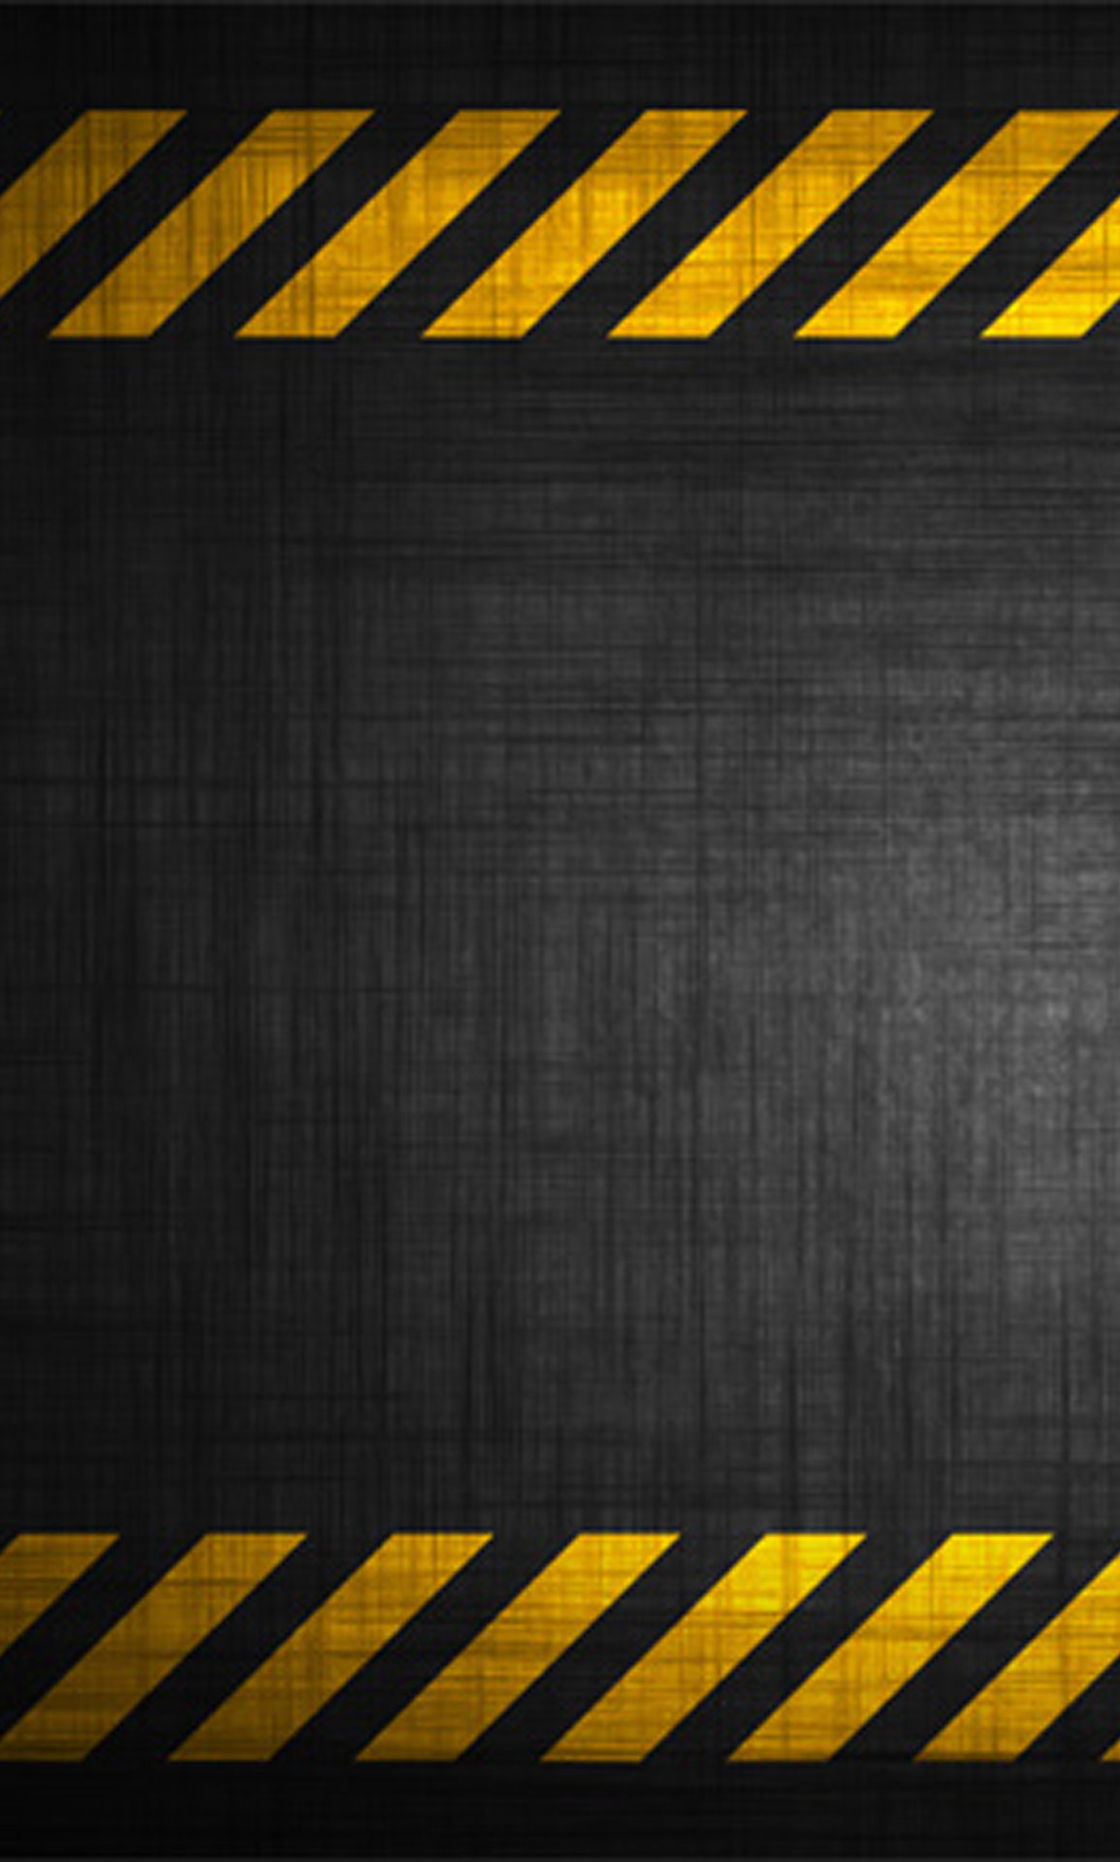
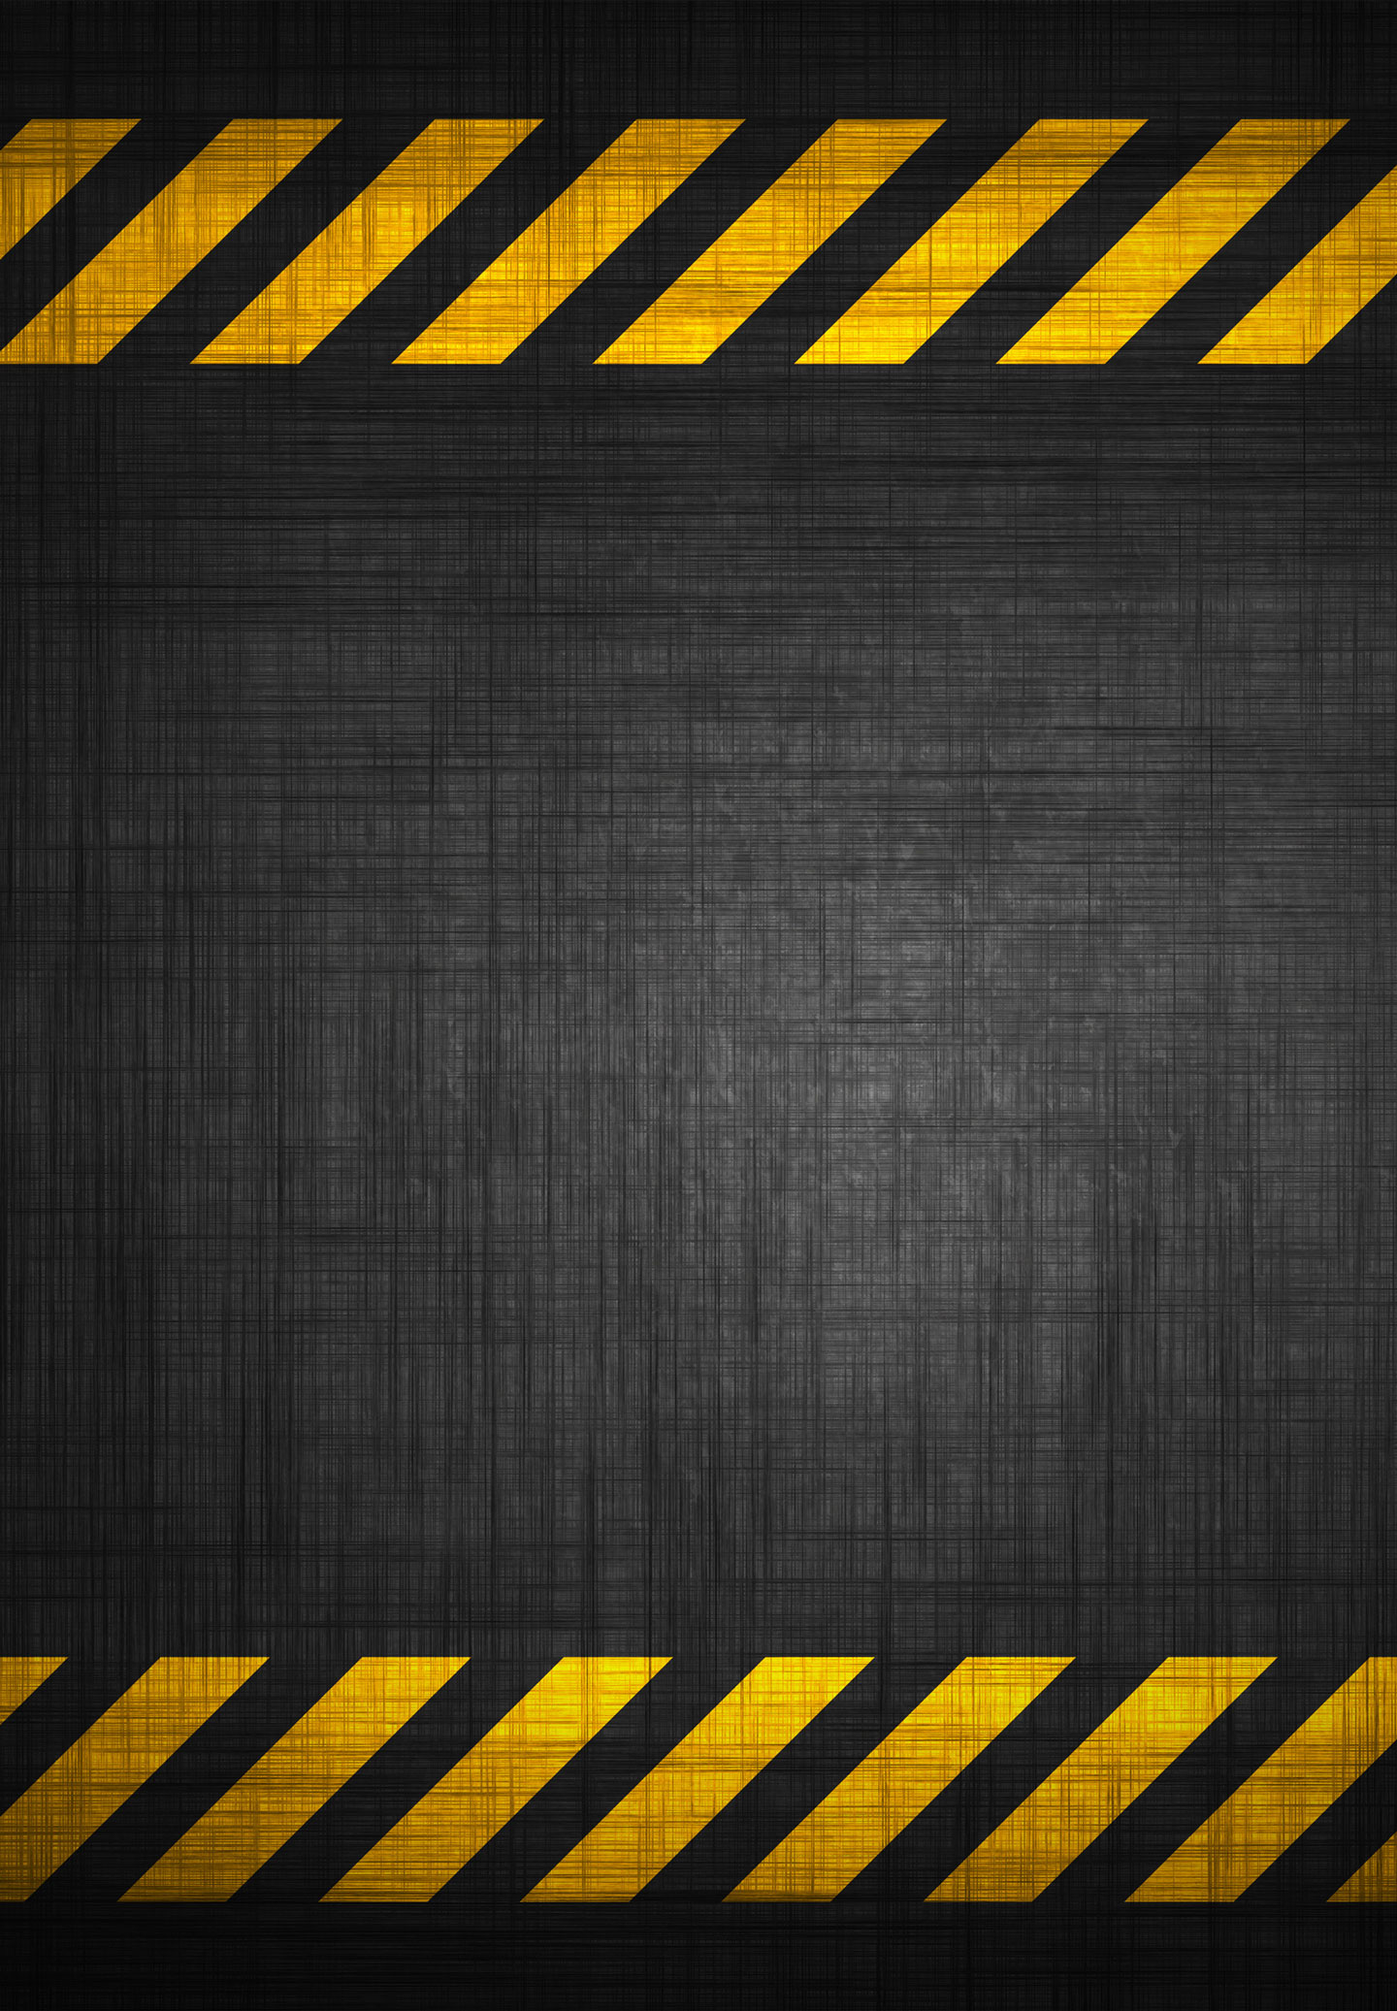
Sinfleplaye and Multiplayer buttons added. Background image now stretches to full background.

diff --git a/core/src/com/chainreactionai/game/ChainReactionAIGame.java b/core/src/com/chainreactionai/game/ChainReactionAIGame.java
@@ -64,9 +64,10 @@ public class ChainReactionAIGame extends Game {
 	public static Drawable achievementsButtonDraw, achievementsPressedButtonDraw, backButtonDraw,
 		backPressedButtonDraw, exitButtonDraw, exitPressedButtonDraw, leaderboardButtonDraw,
 		leaderboardPressedButtonDraw, mainMenuButtonDraw, mainMenuPressedButtonDraw,
-		newGameButtonDraw, newGamePressedButtonDraw, pauseButtonDraw, pausePressedButtonDraw,
-		playButtonDraw, playPressedButtonDraw, playAgainButtonDraw, playAgainPressedButtonDraw,
-		resumeButtonDraw, resumePressedButtonDraw, rulesButtonDraw, rulesPressedButtonDraw,
+		multiPlayerButtonDraw, multiPlayerPressedButtonDraw, newGameButtonDraw, newGamePressedButtonDraw,
+		pauseButtonDraw, pausePressedButtonDraw, playButtonDraw, playPressedButtonDraw,
+		playAgainButtonDraw, playAgainPressedButtonDraw, resumeButtonDraw, resumePressedButtonDraw,
+		rulesButtonDraw, rulesPressedButtonDraw, singlePlayerButtonDraw, singlePlayerPressedButtonDraw,
 		statsButtonDraw, statsPressedButtonDraw, submitButtonDraw, submitPressedButtonDraw,
 		pressedHumanCpuButtonDraw, unpressedHumanButtonDraw, unpressedCpuButtonDraw, logoDraw;
 
@@ -91,6 +92,8 @@ public class ChainReactionAIGame extends Game {
 		leaderboardPressedButtonDraw = (Drawable)(new TextureRegionDrawable(new TextureRegion(new Texture("buttons/leaderboardPressed.png"))));
 		mainMenuButtonDraw = (Drawable)(new TextureRegionDrawable(new TextureRegion(new Texture("buttons/mainMenu.jpg"))));
 		mainMenuPressedButtonDraw = (Drawable)(new TextureRegionDrawable(new TextureRegion(new Texture("buttons/mainMenuPressed.png"))));
+		multiPlayerButtonDraw = (Drawable)(new TextureRegionDrawable(new TextureRegion(new Texture("buttons/multiPlayer.jpg"))));
+		multiPlayerPressedButtonDraw = (Drawable)(new TextureRegionDrawable(new TextureRegion(new Texture("buttons/multiPlayerPressed.png"))));
 		newGameButtonDraw = (Drawable)(new TextureRegionDrawable(new TextureRegion(new Texture("buttons/newGame.jpg"))));
 		newGamePressedButtonDraw = (Drawable)(new TextureRegionDrawable(new TextureRegion(new Texture("buttons/newGamePressed.png"))));
 		pauseButtonDraw = (Drawable)(new TextureRegionDrawable(new TextureRegion(new Texture("buttons/pause.jpg"))));
@@ -103,6 +106,8 @@ public class ChainReactionAIGame extends Game {
 		resumePressedButtonDraw = (Drawable)(new TextureRegionDrawable(new TextureRegion(new Texture("buttons/resumePressed.png"))));
 		rulesButtonDraw = (Drawable)(new TextureRegionDrawable(new TextureRegion(new Texture("buttons/rules.jpg"))));
 		rulesPressedButtonDraw = (Drawable)(new TextureRegionDrawable(new TextureRegion(new Texture("buttons/rulesPressed.png"))));
+		singlePlayerButtonDraw = (Drawable)(new TextureRegionDrawable(new TextureRegion(new Texture("buttons/singlePlayer.jpg"))));
+		singlePlayerPressedButtonDraw = (Drawable)(new TextureRegionDrawable(new TextureRegion(new Texture("buttons/singlePlayerPressed.png"))));
 		statsButtonDraw = (Drawable)(new TextureRegionDrawable(new TextureRegion(new Texture("buttons/statistics.jpg"))));
 		statsPressedButtonDraw = (Drawable)(new TextureRegionDrawable(new TextureRegion(new Texture("buttons/statisticsPressed.png"))));
 		submitButtonDraw = (Drawable)(new TextureRegionDrawable(new TextureRegion(new Texture("buttons/submit.jpg"))));

diff --git a/core/src/com/chainreactionai/game/ChooseGameTypeScreen.java b/core/src/com/chainreactionai/game/ChooseGameTypeScreen.java
@@ -24,6 +24,7 @@ import com.badlogic.gdx.graphics.g3d.environment.DirectionalLight;
 import com.badlogic.gdx.graphics.g3d.utils.ModelBuilder;
 import com.badlogic.gdx.scenes.scene2d.InputEvent;
 import com.badlogic.gdx.scenes.scene2d.Stage;
+import com.badlogic.gdx.scenes.scene2d.ui.Image;
 import com.badlogic.gdx.scenes.scene2d.ui.ImageButton;
 import com.badlogic.gdx.scenes.scene2d.ui.Table;
 import com.badlogic.gdx.scenes.scene2d.utils.ClickListener;
@@ -61,6 +62,7 @@ public class ChooseGameTypeScreen implements Screen {
 	private Environment environment;
 	private ArrayList<Integer> startZPosition, distNow, xVal, yVal, color, speed;
 	private Random rand;
+	private Image img;
 	
 	public ChooseGameTypeScreen(ChainReactionAIGame game) {
 		ChainReactionAIGame.currentScreen = 0;
@@ -138,14 +140,17 @@ public class ChooseGameTypeScreen implements Screen {
         environment.set(new ColorAttribute(ColorAttribute.AmbientLight, 0.4f, 0.4f, 0.4f, 1f));
         environment.add(new DirectionalLight().set(0.8f, 0.8f, 0.8f, -1f, -0.8f, -0.2f));
         rand = new Random();
+        img = new Image(ChainReactionAIGame.texture);
         
         // Adds the buttons to the Table.
-		buttonSinglePlayer = new ImageButton(ChainReactionAIGame.playButtonDraw, ChainReactionAIGame.playPressedButtonDraw);
+		buttonSinglePlayer = new ImageButton(ChainReactionAIGame.singlePlayerButtonDraw, ChainReactionAIGame.singlePlayerPressedButtonDraw);
 		table.add(buttonSinglePlayer).size(WIDTH_MAIN_MENU_BUTTONS*widthUpscaleFactor, HEIGHT_MAIN_MENU_BUTTONS*widthUpscaleFactor).padBottom(20).row();
-		buttonMultiPlayer = new ImageButton(ChainReactionAIGame.rulesButtonDraw, ChainReactionAIGame.rulesPressedButtonDraw);
+		buttonMultiPlayer = new ImageButton(ChainReactionAIGame.multiPlayerButtonDraw, ChainReactionAIGame.multiPlayerPressedButtonDraw);
 		table.add(buttonMultiPlayer).size(WIDTH_MAIN_MENU_BUTTONS*widthUpscaleFactor, HEIGHT_MAIN_MENU_BUTTONS*widthUpscaleFactor).padBottom(20).row();
 		table.setFillParent(true);
 		// Adding the table to stage.
+		stage.addActor(img);
+		img.setFillParent(true);
 		stage.addActor(table);
 		// Attaching ClickListeners to the Play and Exit buttons.
 		buttonSinglePlayer.addListener(new ClickListener() {
@@ -169,10 +174,6 @@ public class ChooseGameTypeScreen implements Screen {
 		Gdx.gl.glViewport(0, 0, Gdx.graphics.getWidth(), Gdx.graphics.getHeight());
 		Gdx.gl.glClear(GL20.GL_COLOR_BUFFER_BIT | GL20.GL_DEPTH_BUFFER_BIT);
 		Gdx.gl.glClearColor(((float)(15)/255), ((float)(15)/255), ((float)(15)/255), 1);
-		batch.setProjectionMatrix(cam.combined);
-	    batch.begin();
-	    batch.draw(ChainReactionAIGame.texture, 0, 0, WIDTH_SCREEN, HEIGHT_SCREEN);
-	    batch.end();
 		if (animationInit) {
 			modelBatch.begin(cam);
 			createAnimation();

diff --git a/core/src/com/chainreactionai/game/MainGameScreenChar.java b/core/src/com/chainreactionai/game/MainGameScreenChar.java
@@ -32,6 +32,7 @@ import com.badlogic.gdx.graphics.glutils.ShapeRenderer.ShapeType;
 import com.badlogic.gdx.math.Rectangle;
 import com.badlogic.gdx.scenes.scene2d.InputEvent;
 import com.badlogic.gdx.scenes.scene2d.Stage;
+import com.badlogic.gdx.scenes.scene2d.ui.Image;
 import com.badlogic.gdx.scenes.scene2d.ui.ImageButton;
 import com.badlogic.gdx.scenes.scene2d.ui.Table;
 import com.badlogic.gdx.scenes.scene2d.utils.ClickListener;
@@ -100,6 +101,7 @@ public class MainGameScreenChar implements Screen {
 	private ArrayList<Integer> startZPosition, distNow, xVal, yVal, color, speed;
 	private boolean animationInit = false;
 	private Random rand;
+	private Image img;
 	//Sound Object
 	private Sound ballSound;
 	private Sound splitSound;
@@ -231,6 +233,8 @@ public class MainGameScreenChar implements Screen {
 		handle.writeString("--------------------------------------------------------------------------\r\n", true);
 		
 		// Populating the Pause menu with the buttons.
+		img = new Image(ChainReactionAIGame.texture);
+		img.setFillParent(true);
 		table.add(resumeButton).size(WIDTH_PAUSE_MENU_BUTTONS*widthUpscaleFactor, HEIGHT_PAUSE_MENU_BUTTONS*widthUpscaleFactor).padBottom(2).row();
 		table.add(newGameButton).size(WIDTH_PAUSE_MENU_BUTTONS*widthUpscaleFactor, HEIGHT_PAUSE_MENU_BUTTONS*widthUpscaleFactor).padBottom(2).row();
 		table.add(mainMenuButton).size(WIDTH_PAUSE_MENU_BUTTONS*widthUpscaleFactor, HEIGHT_PAUSE_MENU_BUTTONS*widthUpscaleFactor).padBottom(2).row();
@@ -519,9 +523,6 @@ public class MainGameScreenChar implements Screen {
 	        modelBatch.end();
 	        shapeRenderer.end();		
 		} else {
-			batch.begin();
-		    batch.draw(ChainReactionAIGame.texture, 0, 0, ChainReactionAIGame.WIDTH, ChainReactionAIGame.HEIGHT);
-		    batch.end();
 			// If the game is paused, add the pause menu to the stage.
 			if (animationInit) {
 				modelBatch.begin(cam);
@@ -529,6 +530,7 @@ public class MainGameScreenChar implements Screen {
 				drawAnimation();
 				modelBatch.end();
 			}
+			stage.addActor(img);
 			stage.addActor(table);
 			stage.act();
 			stage.draw();

diff --git a/core/src/com/chainreactionai/game/GameEndScreen.java b/core/src/com/chainreactionai/game/GameEndScreen.java
@@ -25,6 +25,7 @@ import com.badlogic.gdx.graphics.g3d.environment.DirectionalLight;
 import com.badlogic.gdx.graphics.g3d.utils.ModelBuilder;
 import com.badlogic.gdx.scenes.scene2d.InputEvent;
 import com.badlogic.gdx.scenes.scene2d.Stage;
+import com.badlogic.gdx.scenes.scene2d.ui.Image;
 import com.badlogic.gdx.scenes.scene2d.ui.ImageButton;
 import com.badlogic.gdx.scenes.scene2d.ui.Label;
 import com.badlogic.gdx.scenes.scene2d.ui.Skin;
@@ -70,6 +71,7 @@ public class GameEndScreen implements Screen {
 	private Random rand;
 	private Skin skin = new Skin(Gdx.files.internal("data/Holo-dark-mdpi.json"),
 			new TextureAtlas(Gdx.files.internal("data/Holo-dark-mdpi.atlas")));
+	private Image img = new Image(ChainReactionAIGame.texture);
 	
 	public GameEndScreen (ChainReactionAIGame game, int winner, int numMovesPlayed, boolean[] isCPU, int[] difficultyLevels) {
 		myGame = game;
@@ -141,6 +143,8 @@ public class GameEndScreen implements Screen {
 		table.add(buttonExit).size(WIDTH_BUTTONS*widthUpscaleFactor, HEIGHT_BUTTONS*widthUpscaleFactor).padBottom(20).row();
 		table.setFillParent(true);
 		// Add table to the stage.
+		img.setFillParent(true);
+		stage.addActor(img);
 		stage.addActor(table);
 		// Add ClickListeners to the Play Again and Exit buttons
 		buttonPlayAgain.addListener(new ClickListener() {
@@ -183,10 +187,6 @@ public class GameEndScreen implements Screen {
 		Gdx.gl.glViewport(0, 0, Gdx.graphics.getWidth(), Gdx.graphics.getHeight());
 		Gdx.gl.glClear(GL20.GL_COLOR_BUFFER_BIT | GL20.GL_DEPTH_BUFFER_BIT);
 		Gdx.gl.glClearColor(((float)(15)/255), ((float)(15)/255), ((float)(15)/255), 1);
-		batch.setProjectionMatrix(cam.combined);
-	    batch.begin();
-	    batch.draw(ChainReactionAIGame.texture, 0, 0, WIDTH_SCREEN, HEIGHT_SCREEN);
-	    batch.end();
 		if (animationInit) {
 			modelBatch.begin(cam);
 			createAnimation();

diff --git a/core/src/com/chainreactionai/game/ChooseOpponentsAndLevelsScreen.java b/core/src/com/chainreactionai/game/ChooseOpponentsAndLevelsScreen.java
@@ -28,6 +28,7 @@ import com.badlogic.gdx.scenes.scene2d.InputListener;
 import com.badlogic.gdx.scenes.scene2d.Stage;
 import com.badlogic.gdx.scenes.scene2d.ui.ImageButton;
 import com.badlogic.gdx.scenes.scene2d.ui.ImageButton.ImageButtonStyle;
+import com.badlogic.gdx.scenes.scene2d.ui.Image;
 import com.badlogic.gdx.scenes.scene2d.ui.Label;
 import com.badlogic.gdx.scenes.scene2d.ui.ScrollPane;
 import com.badlogic.gdx.scenes.scene2d.ui.Skin;
@@ -85,6 +86,7 @@ public class ChooseOpponentsAndLevelsScreen implements Screen {
 	private Random rand;
 	private Skin skin = new Skin(Gdx.files.internal("data/Holo-dark-mdpi.json"),
 			new TextureAtlas(Gdx.files.internal("data/Holo-dark-mdpi.atlas")));
+	private Image img = new Image(ChainReactionAIGame.texture);
 	
 	// Constructor which initializes the number of players passed from
 	// NumPlayersScreen and the number if difficulty levels allowed.
@@ -222,6 +224,8 @@ public class ChooseOpponentsAndLevelsScreen implements Screen {
 		container.setFillParent(true);
 		container.add(scroll).fill().expand().row();
 		// Adding container to stage.
+		img.setFillParent(true);
+		stage.addActor(img);
 		stage.addActor(container);
 		// Adding ClickListener to the submit button
 		submitButton.addListener(new ClickListener() {
@@ -250,10 +254,6 @@ public class ChooseOpponentsAndLevelsScreen implements Screen {
 		Gdx.gl.glViewport(0, 0, Gdx.graphics.getWidth(), Gdx.graphics.getHeight());
 		Gdx.gl.glClear(GL20.GL_COLOR_BUFFER_BIT | GL20.GL_DEPTH_BUFFER_BIT);
 		Gdx.gl.glClearColor(((float)(15)/255), ((float)(15)/255), ((float)(15)/255), 1);
-		batch.setProjectionMatrix(cam.combined);
-	    batch.begin();
-	    batch.draw(ChainReactionAIGame.texture, 0, 0, WIDTH_SCREEN, HEIGHT_SCREEN);
-	    batch.end();
 		if (animationInit) {
 			modelBatch.begin(cam);
 			createAnimation();

diff --git a/core/src/com/chainreactionai/game/MainMenuScreen.java b/core/src/com/chainreactionai/game/MainMenuScreen.java
@@ -25,6 +25,7 @@ import com.badlogic.gdx.graphics.g3d.environment.DirectionalLight;
 import com.badlogic.gdx.graphics.g3d.utils.ModelBuilder;
 import com.badlogic.gdx.scenes.scene2d.InputEvent;
 import com.badlogic.gdx.scenes.scene2d.Stage;
+import com.badlogic.gdx.scenes.scene2d.ui.Image;
 import com.badlogic.gdx.scenes.scene2d.ui.ImageButton;
 import com.badlogic.gdx.scenes.scene2d.ui.Table;
 import com.badlogic.gdx.scenes.scene2d.utils.ClickListener;
@@ -66,6 +67,7 @@ public class MainMenuScreen implements Screen {
 	private Environment environment;
 	private ArrayList<Integer> startZPosition, distNow, xVal, yVal, color, speed;
 	private Random rand;
+	private Image img = new Image(ChainReactionAIGame.texture);
 	// Initializing sounds 
 	private Sound sound;
 	
@@ -163,6 +165,8 @@ public class MainMenuScreen implements Screen {
 		table.add(buttonExit).size(WIDTH_MAIN_MENU_BUTTONS*widthUpscaleFactor, HEIGHT_MAIN_MENU_BUTTONS*widthUpscaleFactor).padBottom(20).row();
 		table.setFillParent(true);
 		// Adding the table to stage.
+		img.setFillParent(true);
+		stage.addActor(img);
 		stage.addActor(table);
 		// Attaching ClickListeners to the Play and Exit buttons.
 		buttonPlay.addListener(new ClickListener() {
@@ -209,10 +213,6 @@ public class MainMenuScreen implements Screen {
 		Gdx.gl.glViewport(0, 0, Gdx.graphics.getWidth(), Gdx.graphics.getHeight());
 		Gdx.gl.glClear(GL20.GL_COLOR_BUFFER_BIT | GL20.GL_DEPTH_BUFFER_BIT);
 		Gdx.gl.glClearColor(((float)(15)/255), ((float)(15)/255), ((float)(15)/255), 1);
-		batch.setProjectionMatrix(cam.combined);
-	    batch.begin();
-	    batch.draw(ChainReactionAIGame.texture, 0, 0, WIDTH_SCREEN, HEIGHT_SCREEN);
-	    batch.end();
 		if (animationInit) {
 			modelBatch.begin(cam);
 			createAnimation();

diff --git a/core/src/com/chainreactionai/game/SinglePlayerMenuScreen.java b/core/src/com/chainreactionai/game/SinglePlayerMenuScreen.java
@@ -26,6 +26,7 @@ import com.badlogic.gdx.graphics.g3d.utils.ModelBuilder;
 import com.badlogic.gdx.scenes.scene2d.InputEvent;
 import com.badlogic.gdx.scenes.scene2d.InputListener;
 import com.badlogic.gdx.scenes.scene2d.Stage;
+import com.badlogic.gdx.scenes.scene2d.ui.Image;
 import com.badlogic.gdx.scenes.scene2d.ui.ImageButton;
 import com.badlogic.gdx.scenes.scene2d.ui.Label;
 import com.badlogic.gdx.scenes.scene2d.ui.Skin;
@@ -76,6 +77,7 @@ public class SinglePlayerMenuScreen implements Screen {
 	private Random rand;
 	private Skin skin = new Skin(Gdx.files.internal("data/Holo-dark-mdpi.json"),
 			new TextureAtlas(Gdx.files.internal("data/Holo-dark-mdpi.atlas")));
+	private Image img = new Image(ChainReactionAIGame.texture);
 	
 	// Constructor which initializes the number of players passed from
 	// NumPlayersScreen and the number if difficulty levels allowed.
@@ -186,6 +188,8 @@ public class SinglePlayerMenuScreen implements Screen {
 		table.add(submitButton).size(WIDTH_SUBMIT_BUTTON*widthUpscaleFactor, HEIGHT_SUBMIT_BUTTON*widthUpscaleFactor).row();
 		table.setFillParent(true);
 		//Adding the table to the stage
+		img.setFillParent(true);
+		stage.addActor(img);
 		stage.addActor(table);
 		// Adding ClickListener to the submit button
 		submitButton.addListener(new ClickListener() {

diff --git a/core/src/com/chainreactionai/game/GameStatsScreen.java b/core/src/com/chainreactionai/game/GameStatsScreen.java
@@ -27,6 +27,7 @@ import com.badlogic.gdx.graphics.g3d.environment.DirectionalLight;
 import com.badlogic.gdx.graphics.g3d.utils.ModelBuilder;
 import com.badlogic.gdx.scenes.scene2d.InputEvent;
 import com.badlogic.gdx.scenes.scene2d.Stage;
+import com.badlogic.gdx.scenes.scene2d.ui.Image;
 import com.badlogic.gdx.scenes.scene2d.ui.ImageButton;
 import com.badlogic.gdx.scenes.scene2d.ui.Label;
 import com.badlogic.gdx.scenes.scene2d.ui.ScrollPane;
@@ -74,6 +75,7 @@ public class GameStatsScreen implements Screen {
 	private ImageButton backButton = new ImageButton(ChainReactionAIGame.backButtonDraw, ChainReactionAIGame.backPressedButtonDraw);
 	private Skin skin = new Skin(Gdx.files.internal("data/Holo-dark-mdpi.json"),
 			new TextureAtlas(Gdx.files.internal("data/Holo-dark-mdpi.atlas")));
+	private Image img = new Image(ChainReactionAIGame.texture);
 	
 	// Constructor
 	public GameStatsScreen(ChainReactionAIGame game) {
@@ -186,6 +188,8 @@ public class GameStatsScreen implements Screen {
 		container.setFillParent(true);
 		container.add(scroll).fill().expand().row();
 		// Adding container to stage.
+		img.setFillParent(true);
+		stage.addActor(img);
 		stage.addActor(container);
 		// Attaching the ClickListener to the back button.
 		backButton.addListener(new ClickListener() {

diff --git a/core/src/com/chainreactionai/game/NumPlayersScreen.java b/core/src/com/chainreactionai/game/NumPlayersScreen.java
@@ -26,6 +26,7 @@ import com.badlogic.gdx.graphics.g3d.utils.ModelBuilder;
 import com.badlogic.gdx.scenes.scene2d.InputEvent;
 import com.badlogic.gdx.scenes.scene2d.InputListener;
 import com.badlogic.gdx.scenes.scene2d.Stage;
+import com.badlogic.gdx.scenes.scene2d.ui.Image;
 import com.badlogic.gdx.scenes.scene2d.ui.ImageButton;
 import com.badlogic.gdx.scenes.scene2d.ui.Label;
 import com.badlogic.gdx.scenes.scene2d.ui.Skin;
@@ -74,6 +75,7 @@ public class NumPlayersScreen implements Screen {
 	private Random rand;
 	private Skin skin = new Skin(Gdx.files.internal("data/Holo-dark-mdpi.json"),
 			new TextureAtlas(Gdx.files.internal("data/Holo-dark-mdpi.atlas")));
+	private Image img = new Image(ChainReactionAIGame.texture);
 	
 	public NumPlayersScreen(ChainReactionAIGame game) {
 		ChainReactionAIGame.currentScreen = 1;
@@ -178,6 +180,8 @@ public class NumPlayersScreen implements Screen {
 		table.add(submitButton).size(WIDTH_SUBMIT_BUTTON*widthUpscaleFactor, HEIGHT_SUBMIT_BUTTON*widthUpscaleFactor).padBottom(2).row();
 		table.setFillParent(true);
 		// Adding the table to the stage.
+		img.setFillParent(true);
+		stage.addActor(img);
 		stage.addActor(table);
 		// Attaching the ClickListener to the submit button.
 		submitButton.addListener(new ClickListener() {

diff --git a/core/src/com/chainreactionai/game/GameRulesScreen.java b/core/src/com/chainreactionai/game/GameRulesScreen.java
@@ -29,6 +29,7 @@ import com.badlogic.gdx.scenes.scene2d.InputEvent;
 import com.badlogic.gdx.scenes.scene2d.Stage;
 import com.badlogic.gdx.scenes.scene2d.ui.ImageButton;
 import com.badlogic.gdx.scenes.scene2d.ui.ImageButton.ImageButtonStyle;
+import com.badlogic.gdx.scenes.scene2d.ui.Image;
 import com.badlogic.gdx.scenes.scene2d.ui.Label;
 import com.badlogic.gdx.scenes.scene2d.ui.ScrollPane;
 import com.badlogic.gdx.scenes.scene2d.ui.Skin;
@@ -81,6 +82,7 @@ public class GameRulesScreen implements Screen {
 	private ImageButton cornerSplitButton;
 	private Skin skin = new Skin(Gdx.files.internal("data/Holo-dark-mdpi.json"),
 			new TextureAtlas(Gdx.files.internal("data/Holo-dark-mdpi.atlas")));
+	private Image img = new Image(ChainReactionAIGame.texture);
 	
 	// Constructor
 	public GameRulesScreen(ChainReactionAIGame game) {
